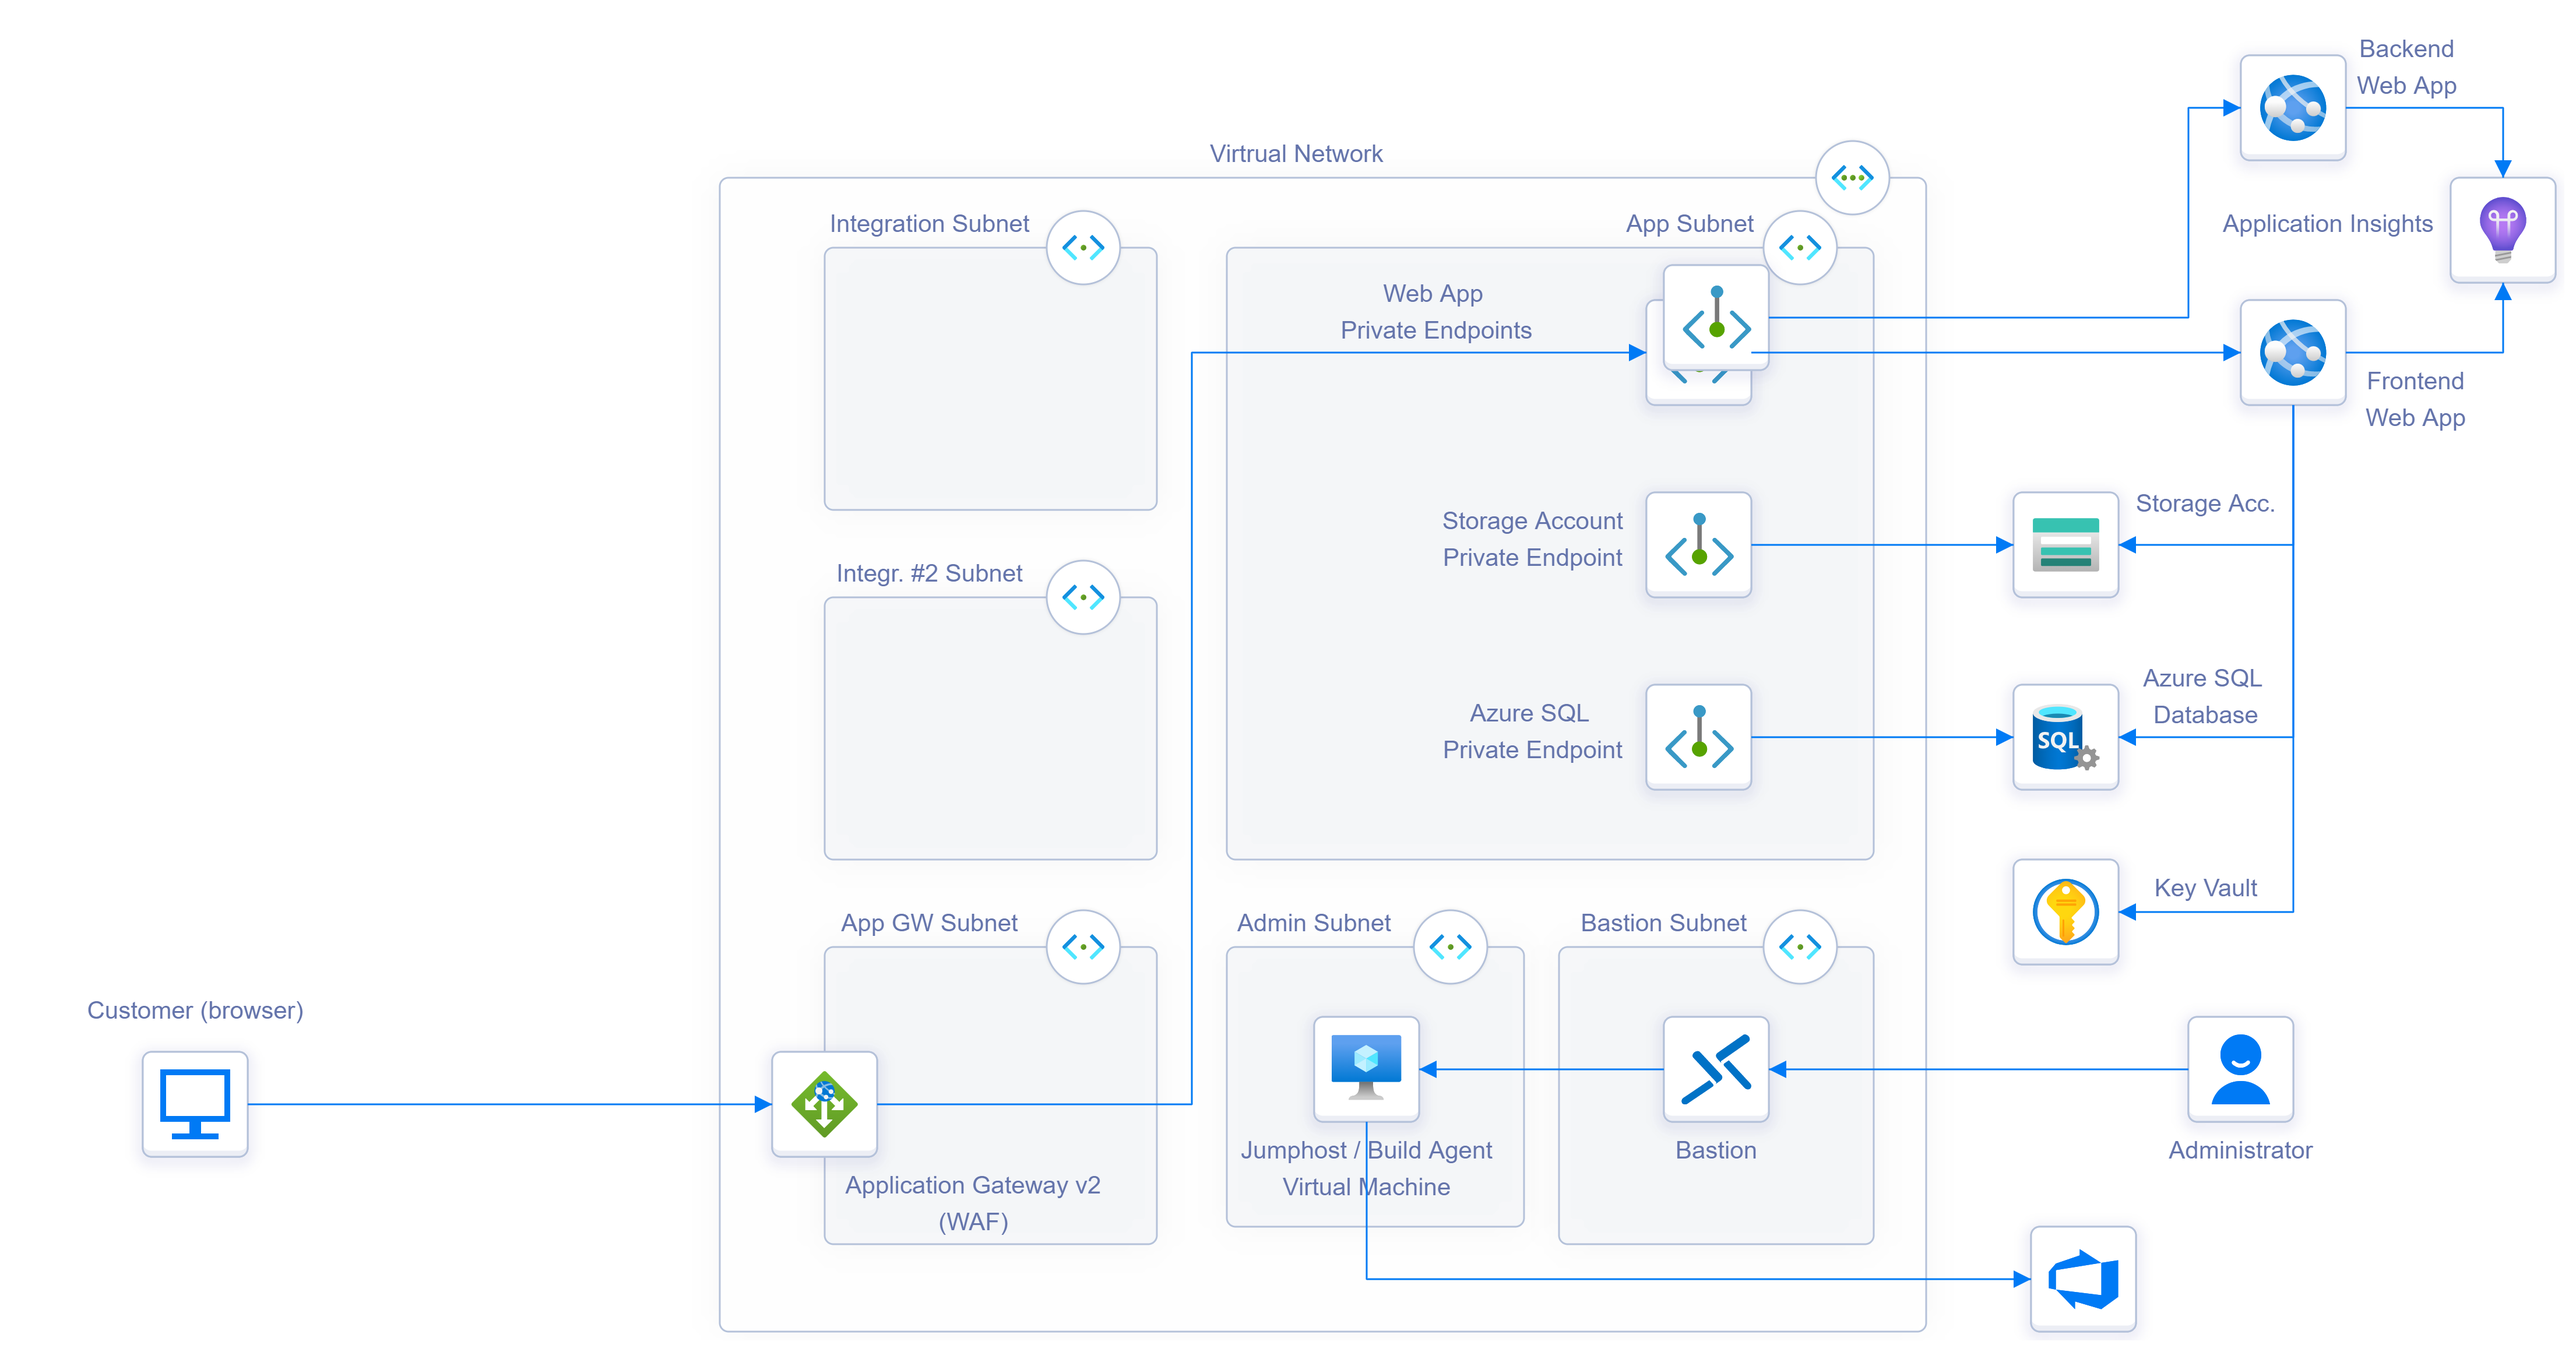
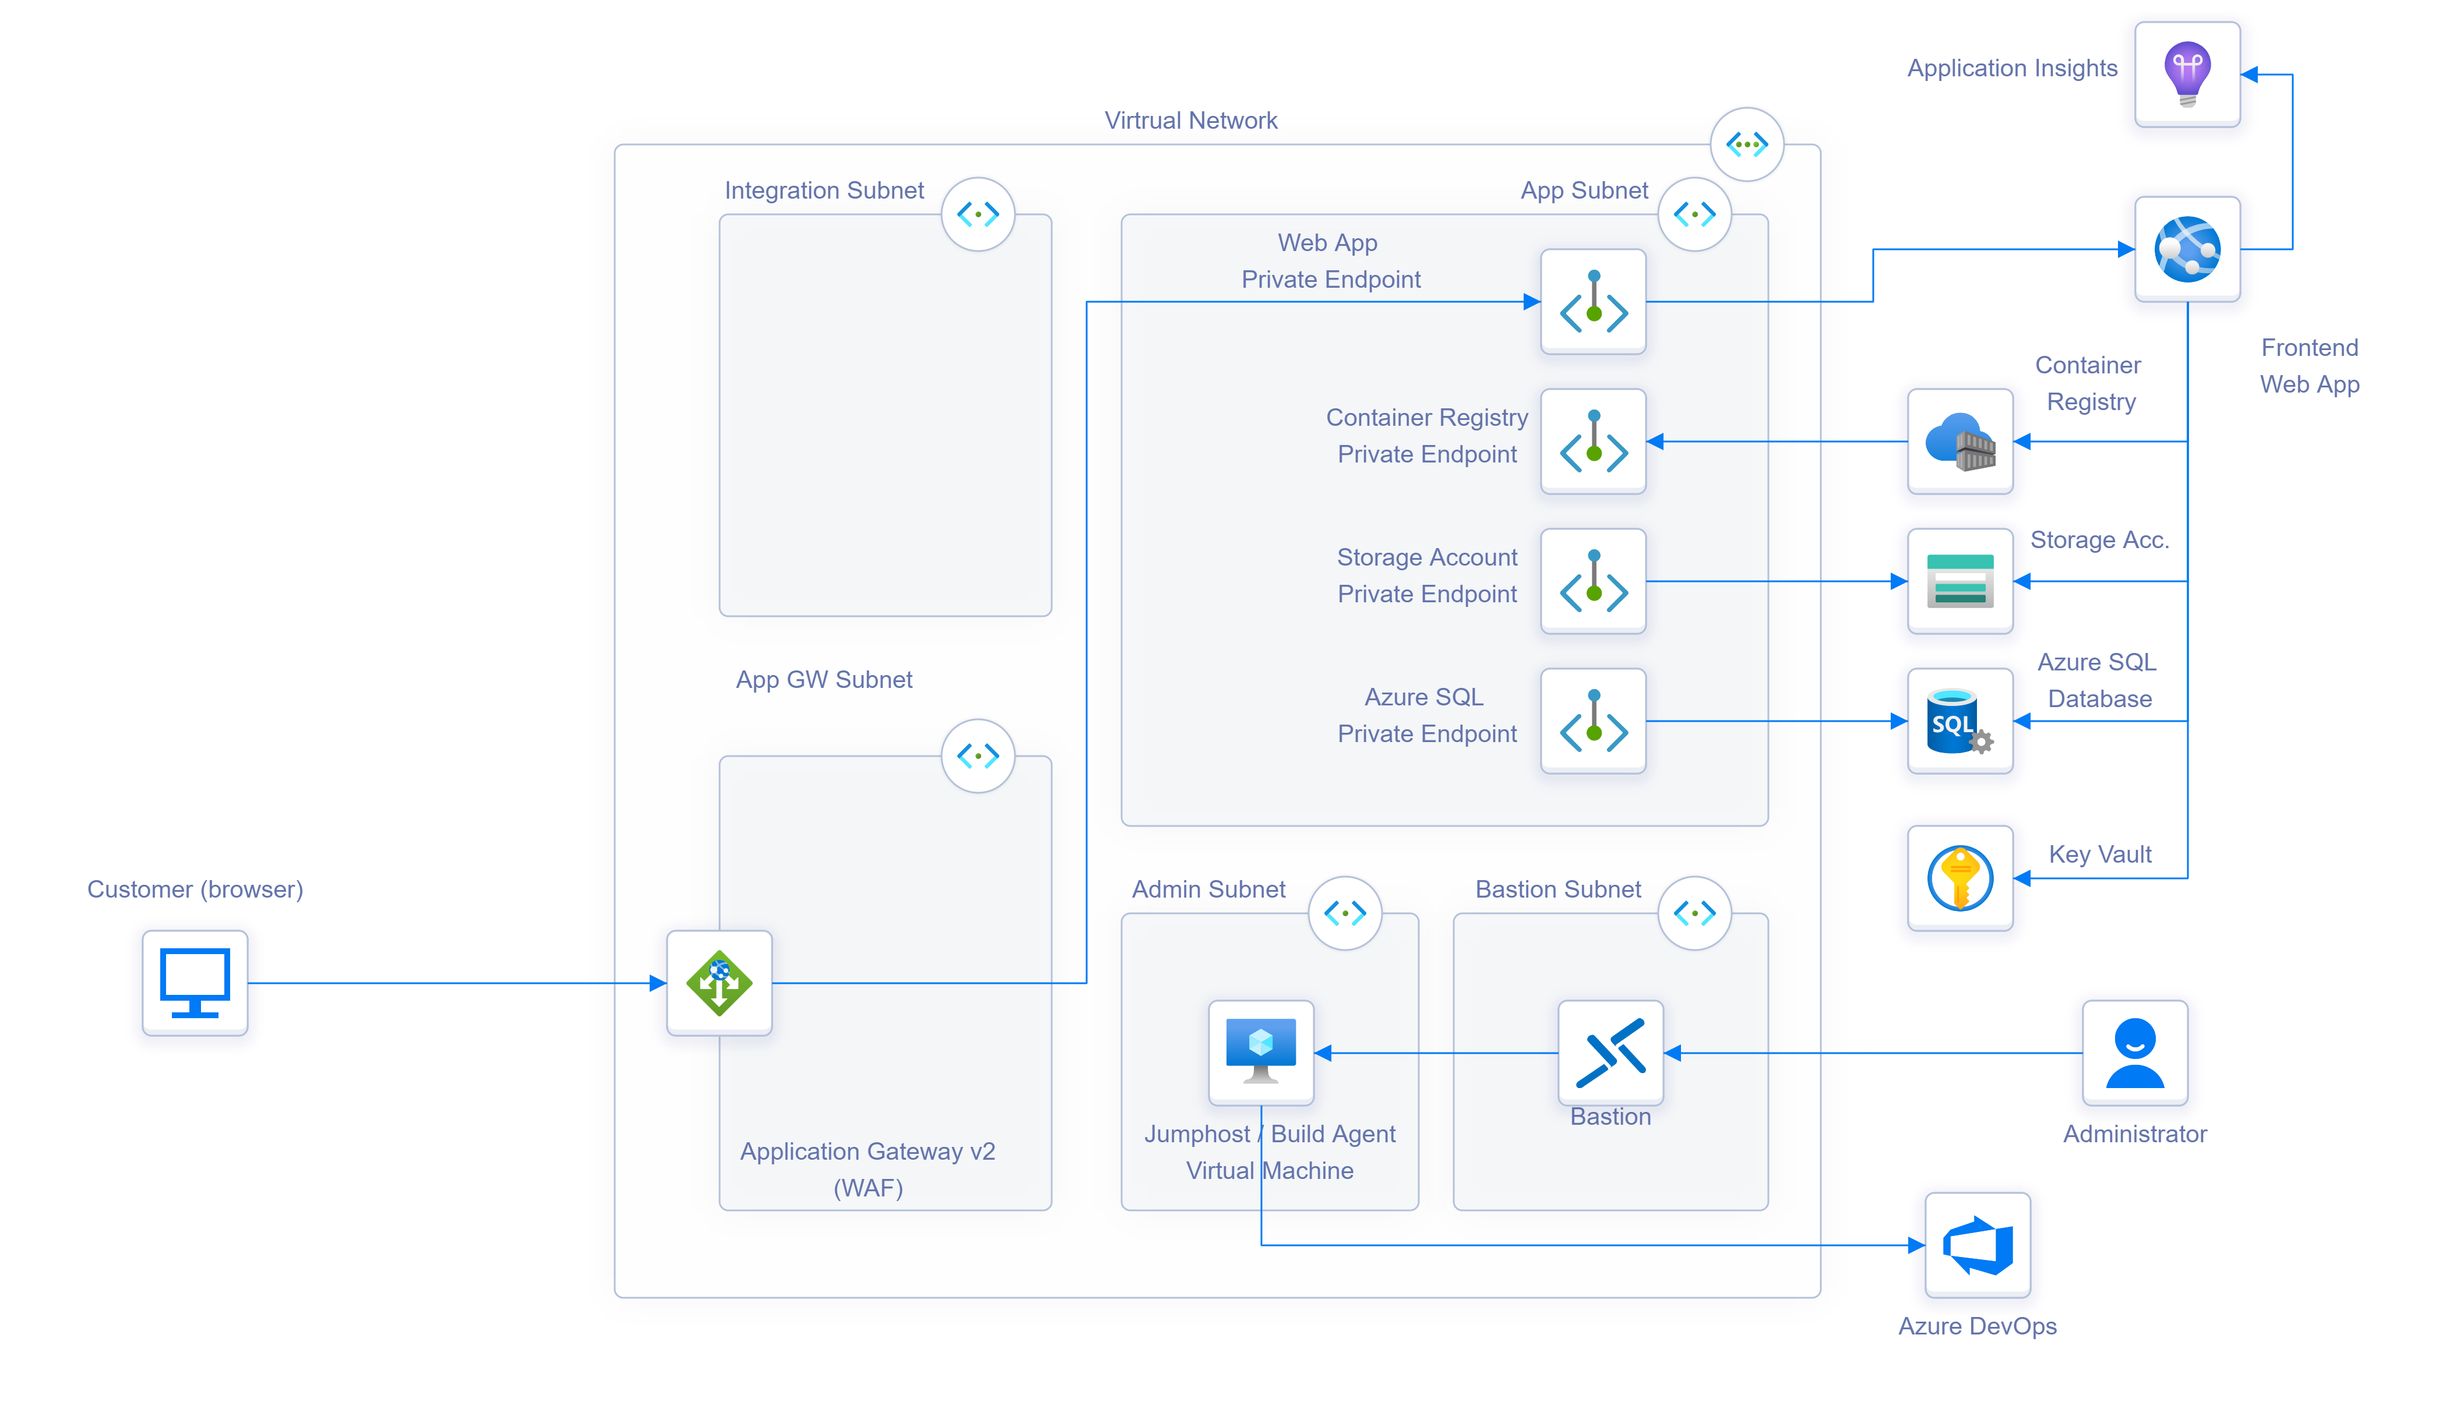
Documentation & minor bicep changes

diff --git a/README.md b/README.md
@@ -1,6 +1,6 @@
-# Secure website deployment on Azure - GAB 2022 edition
+# Secure Web App for Containers deployment on Azure
 
-[![Deploy To Azure](https://aka.ms/deploytoazurebutton)](https://portal.azure.com/#create/Microsoft.Template/uri/https%3A%2F%2Fraw.githubusercontent.com%2Fnianton%2Fgab2022-bicep%2Fmain%2Fazure.deploy.json)
+[![Deploy To Azure](https://aka.ms/deploytoazurebutton)](https://portal.azure.com/#create/Microsoft.Template/uri/https%3A%2F%2Fraw.githubusercontent.com%2Fnianton%2Fazure-secure-webapp-container%2Fmain%2Fazure.deploy.json)
 
 
 This is a templated deployment of a secure Azure architecture for hosting a web application application, having all the related PaaS components deployed in a virtual network leveraging Private Endpoints.
